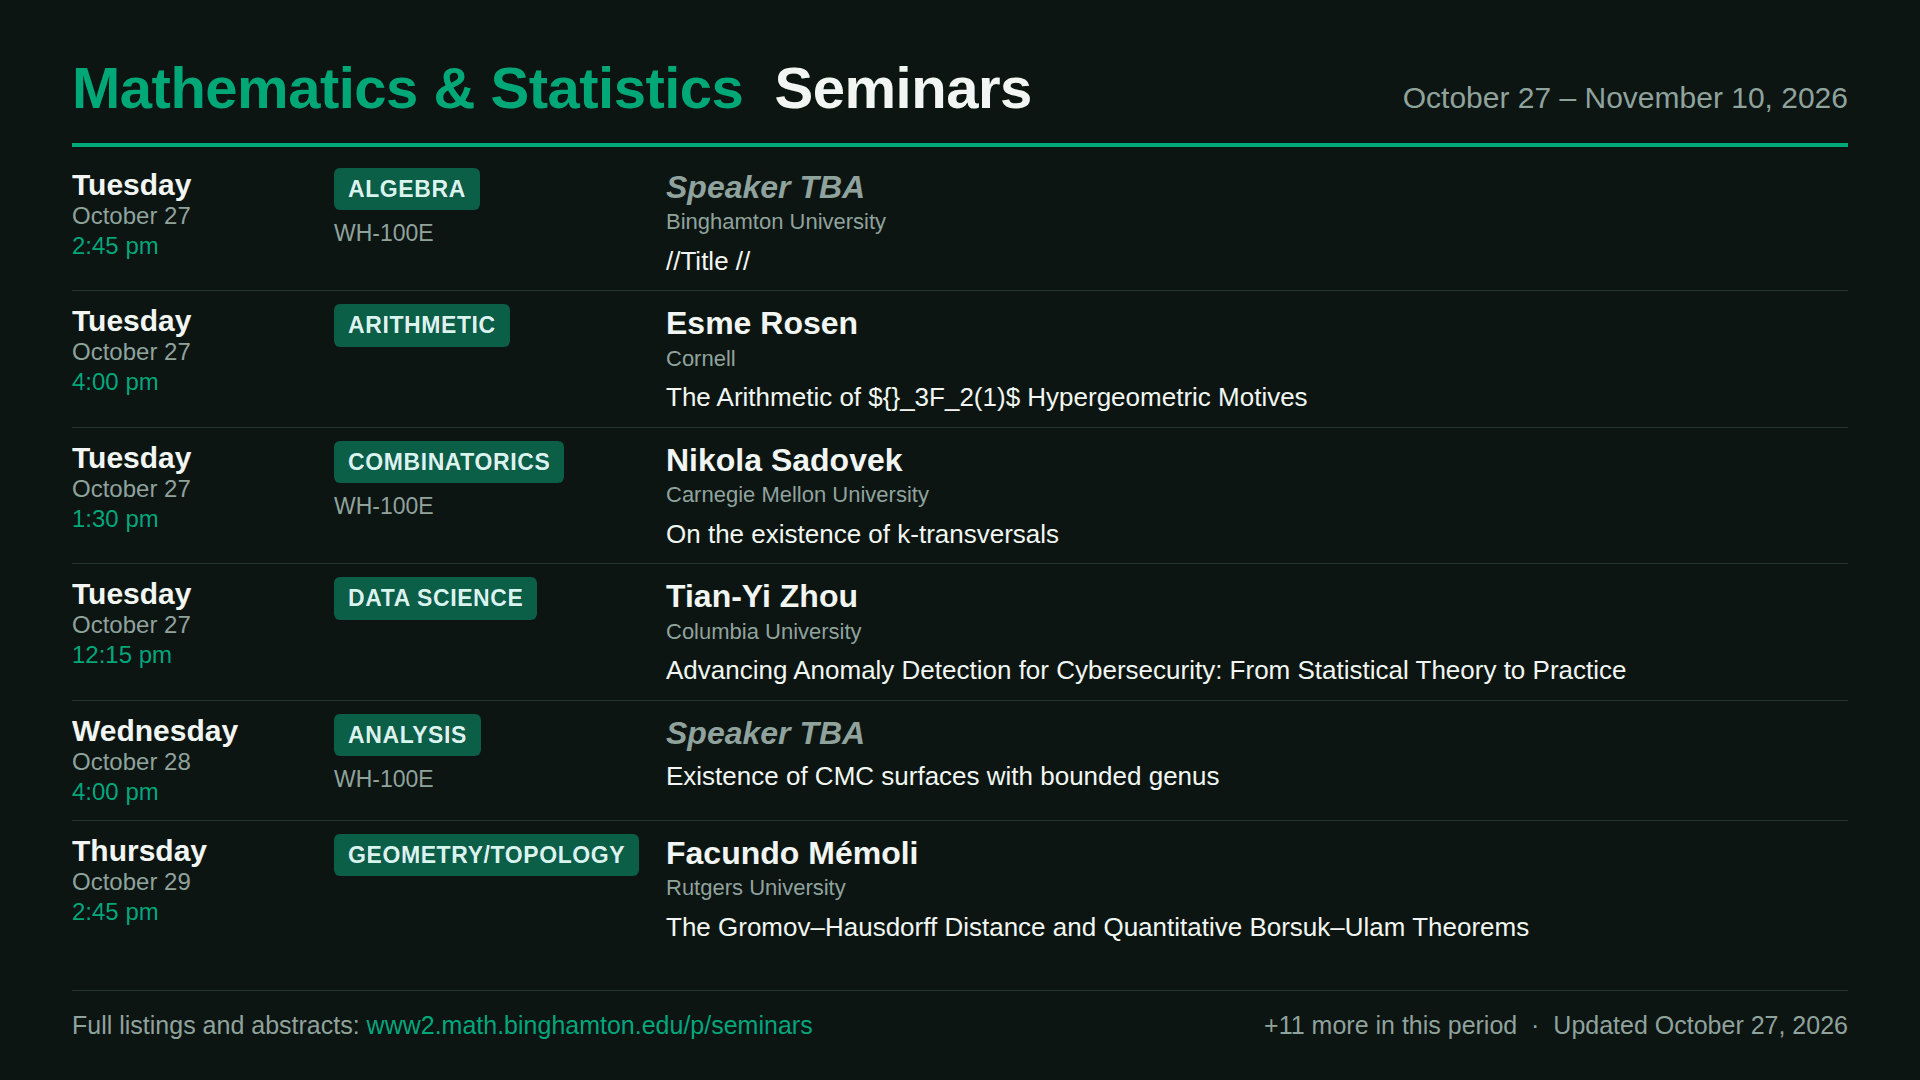
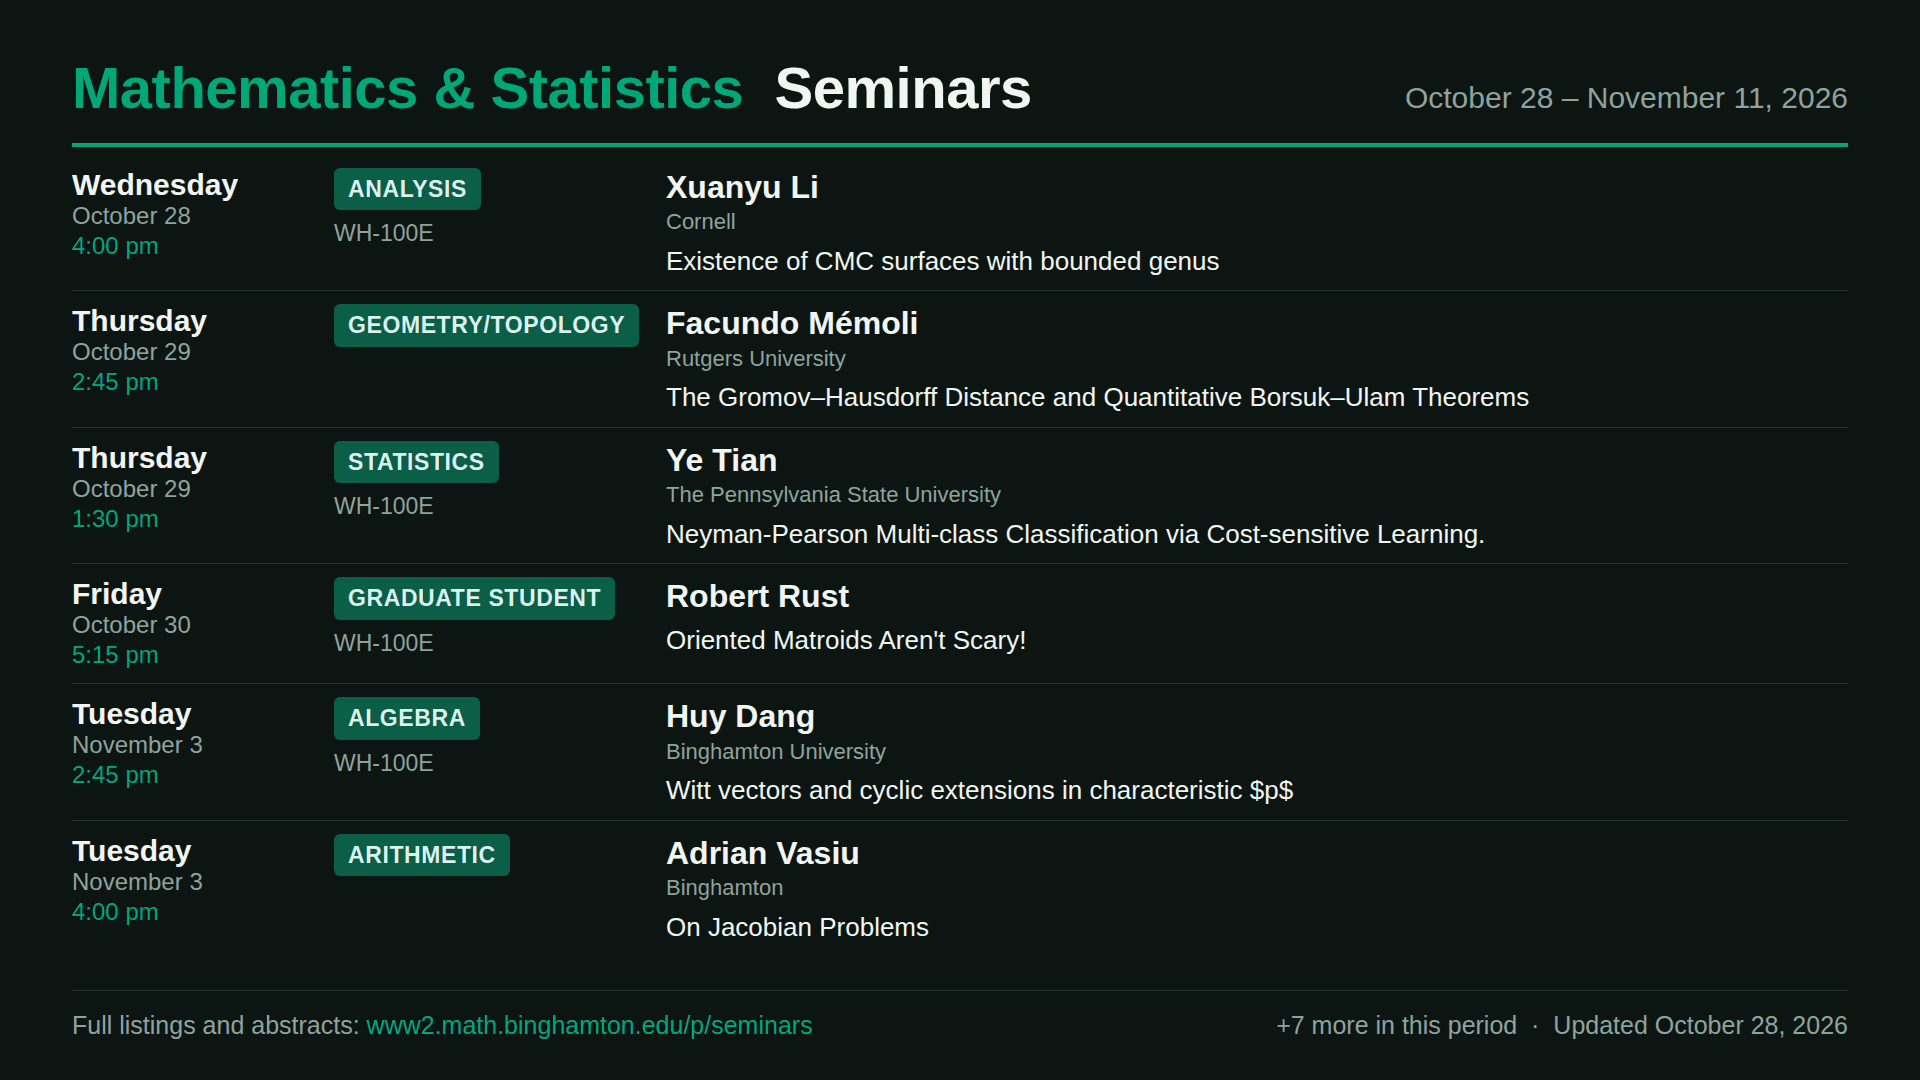
Update seminar table and TV image 2026-10-28

diff --git a/docs/index.html b/docs/index.html
@@ -51,20 +51,17 @@
 </head>
 <body>
 <h2>This Week's Seminars</h2>
-<div class="subtitle">Week of October 27–November 3, 2026. Updated October 27, 2026.</div>
+<div class="subtitle">Week of October 28–November 4, 2026. Updated October 28, 2026.</div>
 <table>
 <tr><th>Date</th><th>Time</th><th>Seminar</th><th>Speaker</th><th>Title</th></tr>
-<tr><td>Tuesday, Oct 27</td><td>2:45</td><td>Algebra</td><td> (Binghamton University)</td><td><a href="https://www2.math.binghamton.edu/p/seminars/alge">//Title //</a></td></tr>
-<tr><td>Tuesday, Oct 27</td><td>4:00</td><td>Arithmetic</td><td>Esme Rosen (Cornell)</td><td><a href="https://www2.math.binghamton.edu/p/seminars/arit">The Arithmetic of ${}_3F_2(1)$ Hypergeometric Motives</a></td></tr>
-<tr><td>Tuesday, Oct 27</td><td>1:30</td><td>Combinatorics</td><td>Nikola Sadovek (Carnegie Mellon University)</td><td><a href="https://www2.math.binghamton.edu/p/seminars/comb/start">On the existence of k-transversals</a></td></tr>
-<tr><td>Tuesday, Oct 27</td><td>12:15</td><td>Data Science</td><td>Tian-Yi Zhou (Columbia University)</td><td><a href="https://www2.math.binghamton.edu/p/seminars/datasci">Advancing Anomaly Detection for Cybersecurity: From Statistical Theory to Practice</a></td></tr>
-<tr><td>Wednesday, Oct 28</td><td>4:00</td><td>Analysis</td><td></td><td><a href="https://www2.math.binghamton.edu/p/seminars/anal">Existence of CMC surfaces with bounded genus</a></td></tr>
+<tr><td>Wednesday, Oct 28</td><td>4:00</td><td>Analysis</td><td>Xuanyu Li (Cornell)</td><td><a href="https://www2.math.binghamton.edu/p/seminars/anal">Existence of CMC surfaces with bounded genus</a></td></tr>
 <tr><td>Thursday, Oct 29</td><td>2:45</td><td>Geometry/Topology</td><td>Facundo Mémoli (Rutgers University)</td><td><a href="https://www2.math.binghamton.edu/p/seminars/topsem">The Gromov–Hausdorff Distance and Quantitative Borsuk–Ulam Theorems</a></td></tr>
-<tr><td>Thursday, Oct 29</td><td>1:30</td><td>Statistics</td><td>**</td><td><a href="https://www2.math.binghamton.edu/p/seminars/stat">Neyman-Pearson Multi-class Classification via Cost-sensitive Learning.</a></td></tr>
+<tr><td>Thursday, Oct 29</td><td>1:30</td><td>Statistics</td><td>Ye Tian (The Pennsylvania State University)</td><td><a href="https://www2.math.binghamton.edu/p/seminars/stat">Neyman-Pearson Multi-class Classification via Cost-sensitive Learning.</a></td></tr>
 <tr><td>Friday, Oct 30</td><td>5:15</td><td>Graduate Student</td><td>Robert Rust</td><td><a href="https://sites.google.com/binghamton.edu/bumathgradseminar/fall-2026">Oriented Matroids Aren't Scary!</a></td></tr>
-<tr><td>Tuesday, Nov 3</td><td>2:45</td><td>Algebra</td><td>Huy Dang (Binghamton University)</td><td><a href="https://www2.math.binghamton.edu/p/seminars/alge">//Witt vectors and cyclic extensions in characteristic $p$ //</a></td></tr>
+<tr><td>Tuesday, Nov 3</td><td>2:45</td><td>Algebra</td><td>Huy Dang (Binghamton University)</td><td><a href="https://www2.math.binghamton.edu/p/seminars/alge">Witt vectors and cyclic extensions in characteristic $p$</a></td></tr>
 <tr><td>Tuesday, Nov 3</td><td>4:00</td><td>Arithmetic</td><td>Adrian Vasiu (Binghamton)</td><td><a href="https://www2.math.binghamton.edu/p/seminars/arit">On Jacobian Problems</a></td></tr>
 <tr><td>Tuesday, Nov 3</td><td>12:15</td><td>Data Science</td><td>Thorsten Joachims (Cornell University)</td><td><a href="https://www2.math.binghamton.edu/p/seminars/datasci">Recommended for You: A Template for Human-Interactive AI</a></td></tr>
+<tr><td>Wednesday, Nov 4</td><td>4:00</td><td>Analysis</td><td>Qihao Ye (columbia)</td><td><a href="https://www2.math.binghamton.edu/p/seminars/anal">Toward Reliable AI-Assisted Mathematics</a></td></tr>
 </table>
 <p class="note">Auto-updated nightly. <a href="https://www2.math.binghamton.edu/p/seminars">Full seminar listings →</a></p>
 </body>
